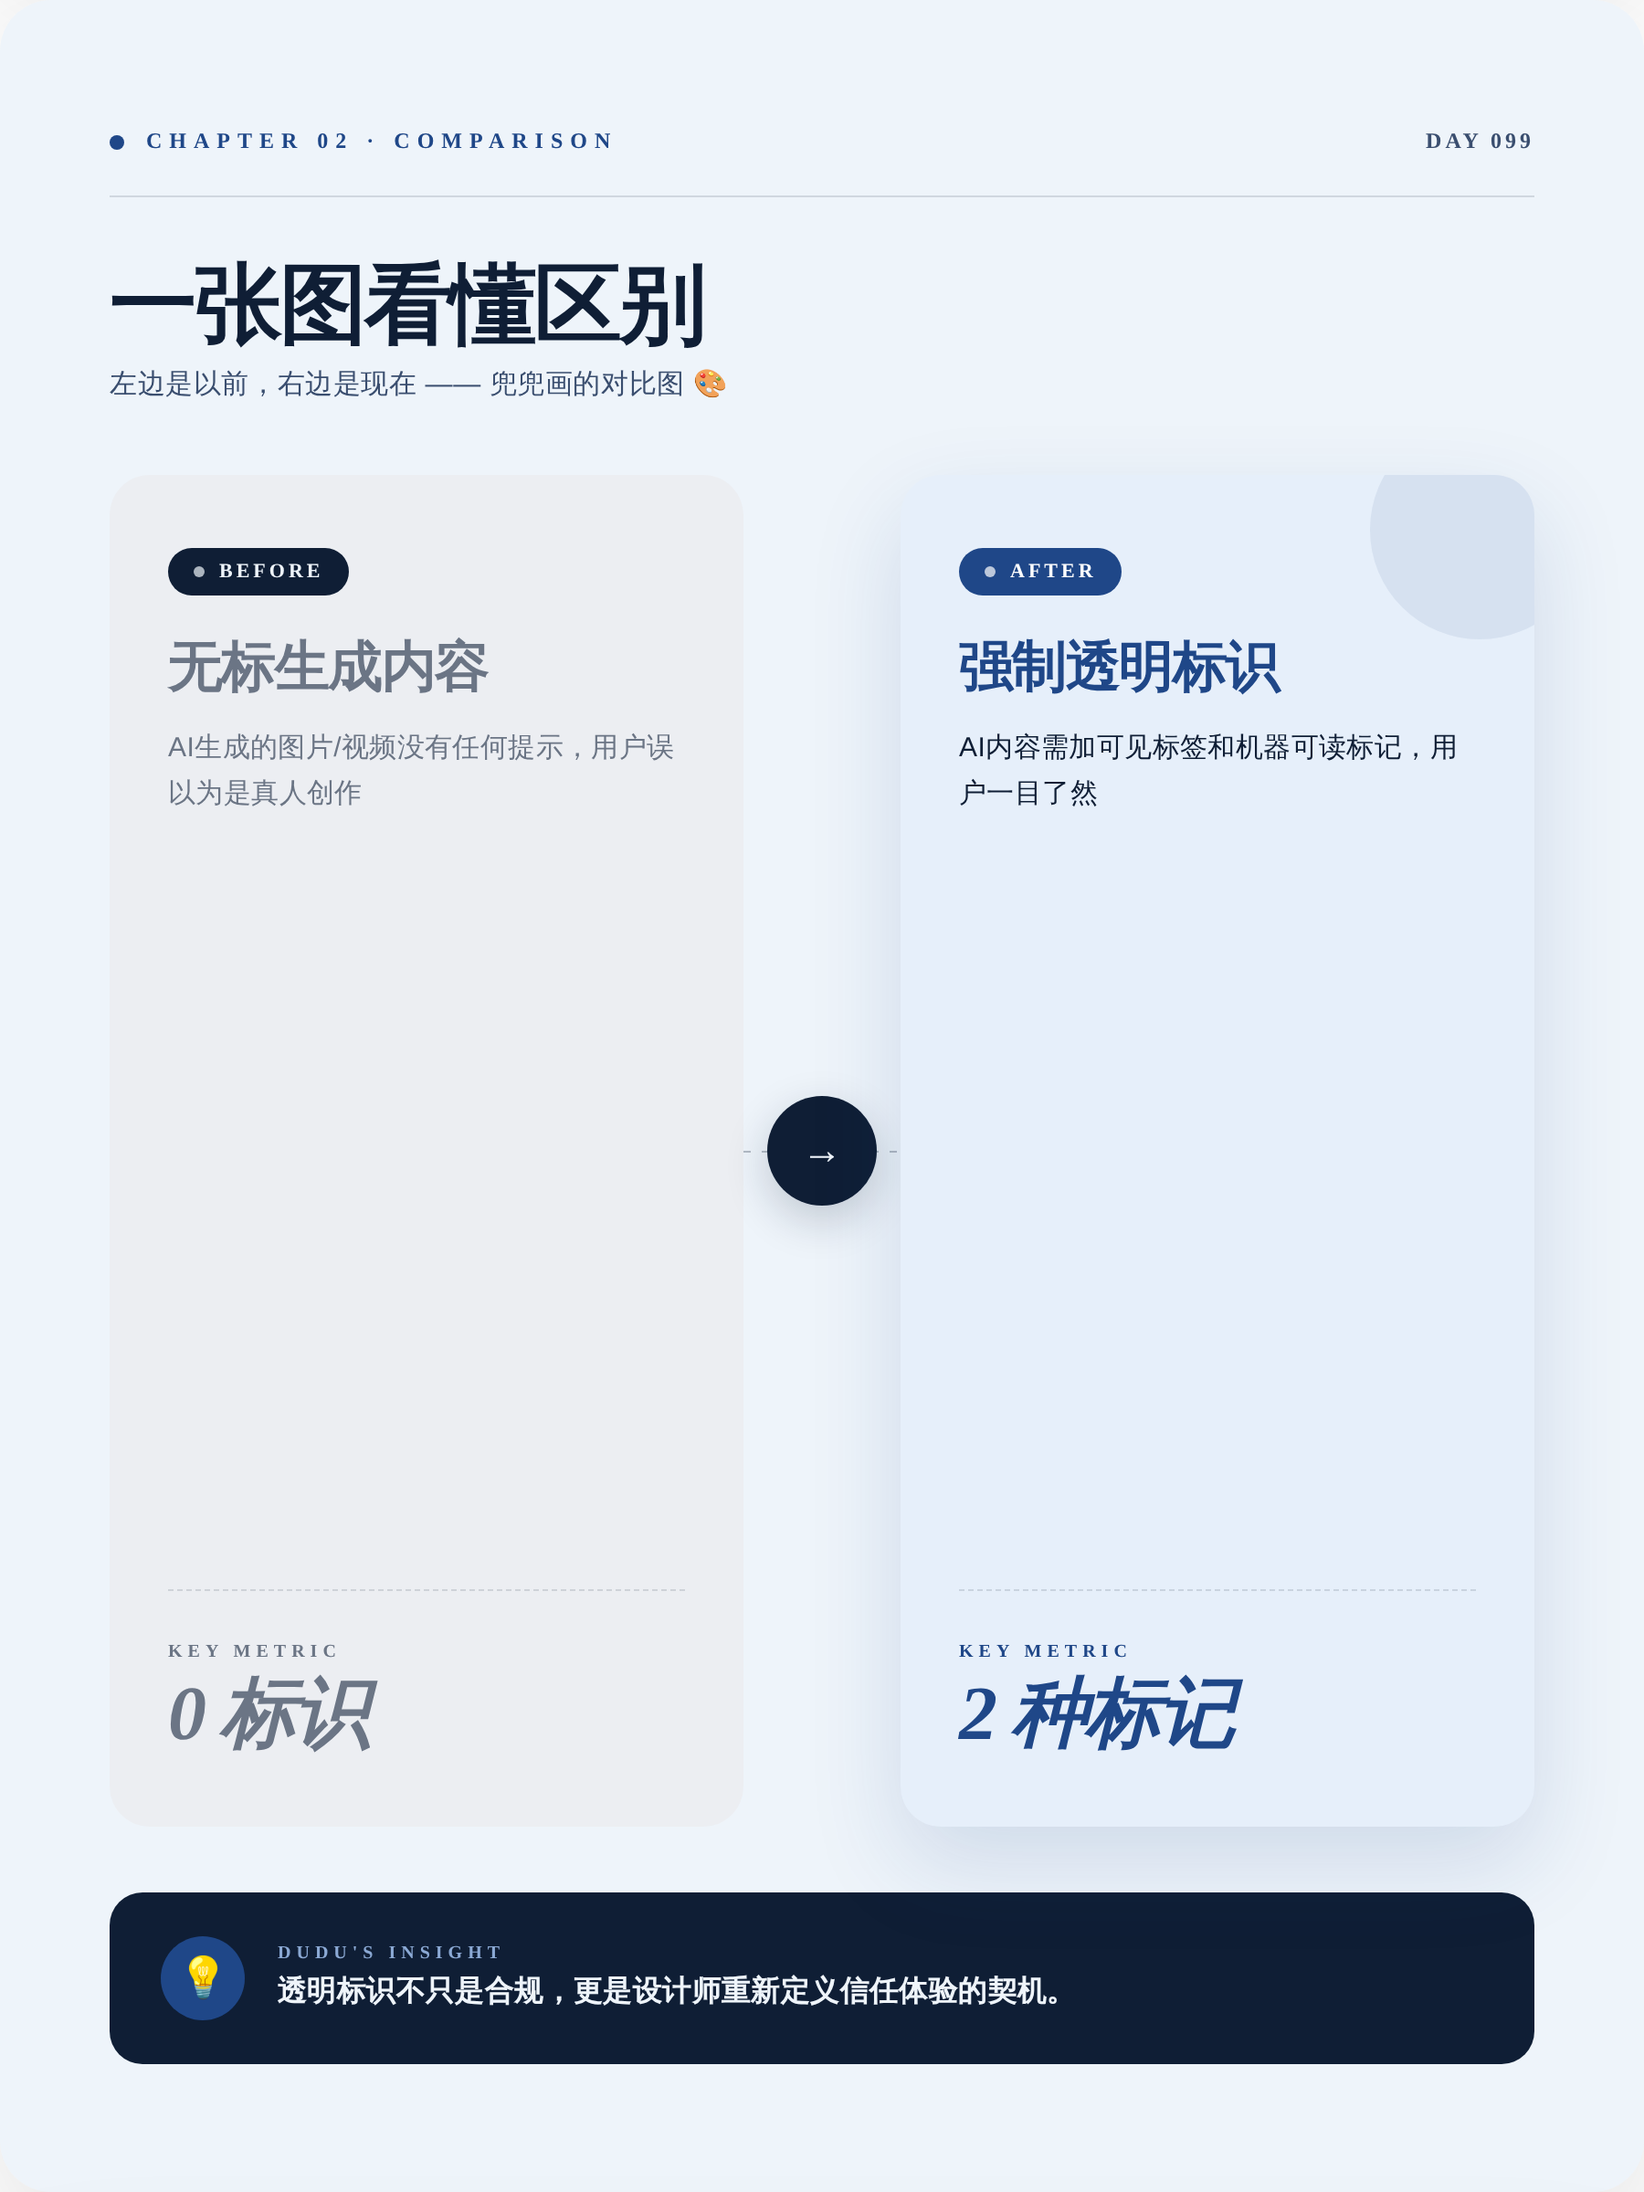
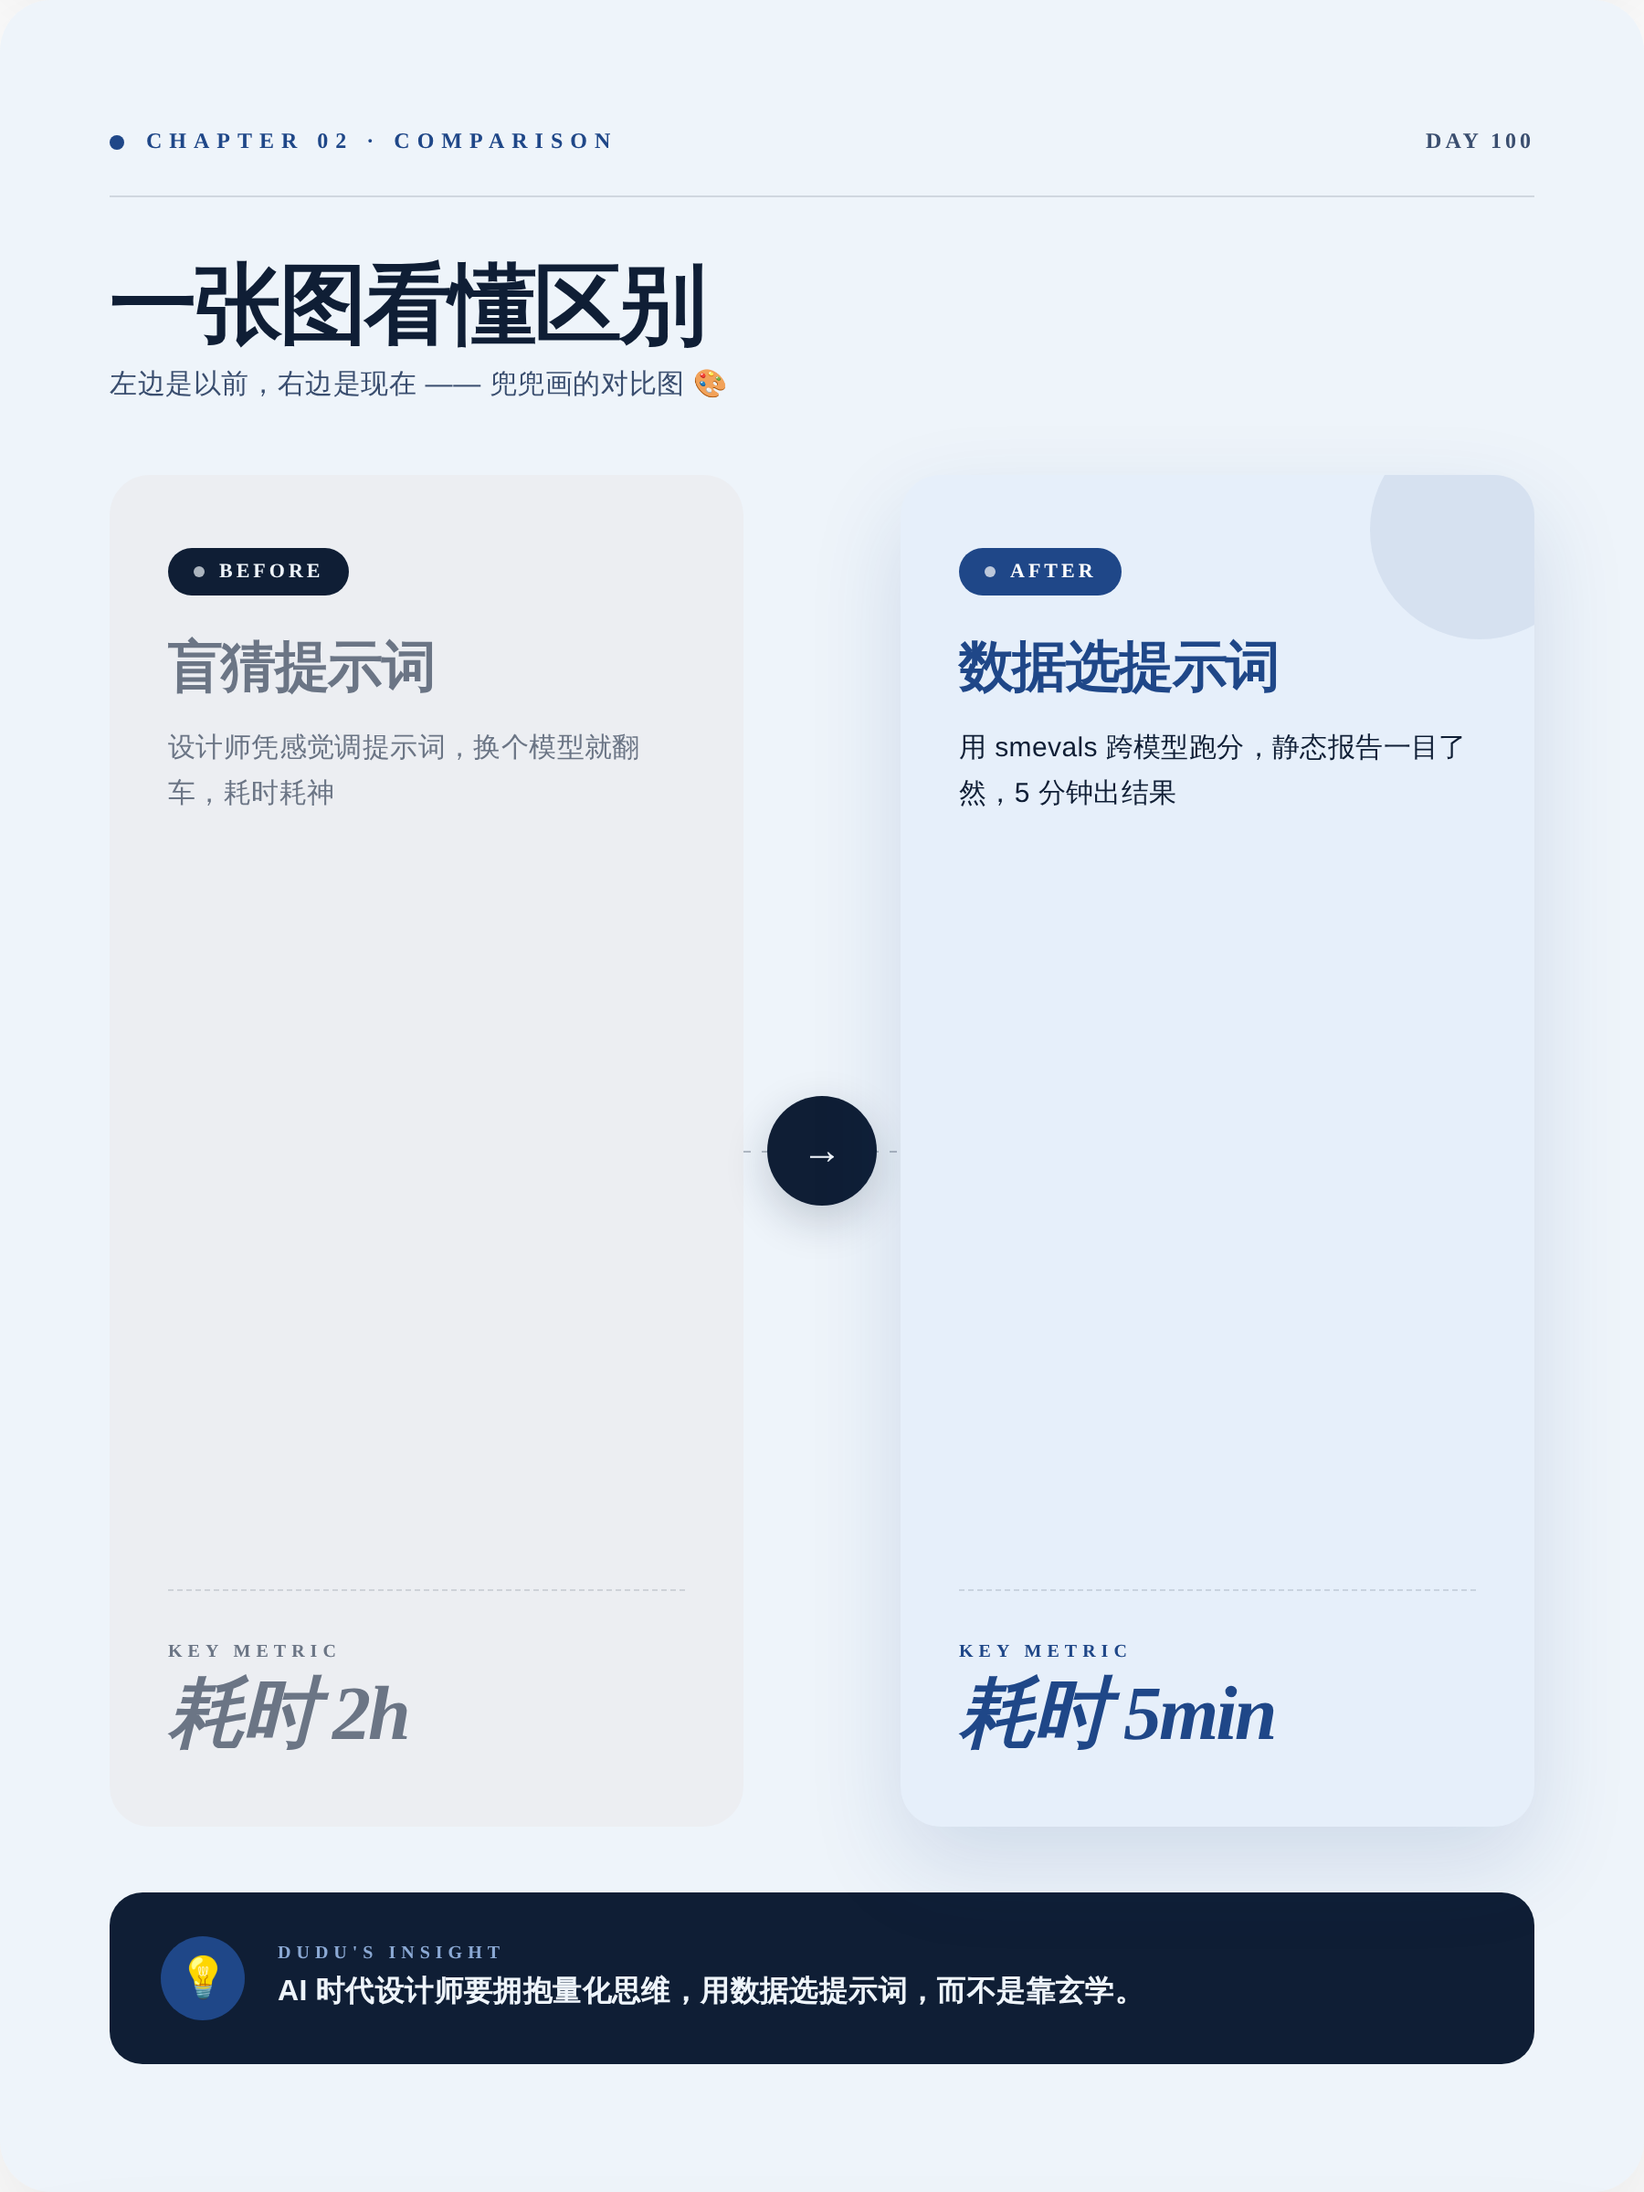
🐣 兜兜的第 100 天日记 (2026-08-01)

diff --git a/output/preview.html b/output/preview.html
@@ -171,37 +171,37 @@ body{font-family:-apple-system,"PingFang SC","Microsoft YaHei",sans-serif}
 <div class="card cover" id="cover">
   <div class="cover-grid"></div>
   <div class="cover-blob"></div>
-  <div class="cover-emoji">🏷</div>
+  <div class="cover-emoji">📏</div>
 
   <div class="cover-top">
     <div class="cover-brand">
       <div class="cover-brand-dot"></div>
       <div class="cover-brand-text">DUDU&#39;S AI DIARY</div>
     </div>
-    <div class="cover-date">2026.07.31</div>
+    <div class="cover-date">2026.08.01</div>
   </div>
 
   <div class="cover-kicker">
     <div class="cover-kicker-bar"></div>
-    <div class="cover-kicker-text">NEW RULES</div>
+    <div class="cover-kicker-text">TOOL UPDATE</div>
   </div>
 
   <div class="cover-volume">
-    <div class="cover-vol-num">99</div>
+    <div class="cover-vol-num">100</div>
     <div class="cover-vol-meta">
       <div class="cover-vol-label">VOLUME / 卷</div>
-      <div class="cover-vol-sub">兜兜的第 99 天</div>
+      <div class="cover-vol-sub">兜兜的第 100 天</div>
     </div>
   </div>
 
-  <div class="cover-title">AI内容要贴标签</div>
-  <div class="cover-subtitle">欧盟新规8月2日生效</div>
+  <div class="cover-title">设计师的评测尺</div>
+  <div class="cover-subtitle">smevals 让提示词对比不再靠感觉</div>
 
   <div class="cover-bottom">
     <div class="cover-bottom-left">
       <div class="cover-bottom-cell">
         <div class="cell-label">TOPIC</div>
-        <div class="cell-val">IT之家（RSS）</div>
+        <div class="cell-val">Simon Willison 博客</div>
       </div>
       <div class="cover-bottom-cell">
         <div class="cell-label">SERIES</div>
@@ -209,7 +209,7 @@ body{font-family:-apple-system,"PingFang SC","Microsoft YaHei",sans-serif}
       </div>
     </div>
     <div class="cover-bottom-right">
-      <div class="cover-quote-en">&ldquo;Transparency is the new design principle.&rdquo;</div>
+      <div class="cover-quote-en">&ldquo;Measure your prompts, not your vibes.&rdquo;</div>
     </div>
   </div>
 </div>
@@ -222,7 +222,7 @@ body{font-family:-apple-system,"PingFang SC","Microsoft YaHei",sans-serif}
       <div class="compare-head-dot"></div>
       <div class="compare-head-kicker">CHAPTER 02 · COMPARISON</div>
     </div>
-    <div class="compare-head-right">DAY 099</div>
+    <div class="compare-head-right">DAY 100</div>
   </div>
 
   <div class="compare-title">一张图看懂区别</div>
@@ -235,11 +235,11 @@ body{font-family:-apple-system,"PingFang SC","Microsoft YaHei",sans-serif}
         <div class="cs-chip-dot"></div>
         BEFORE
       </div>
-      <div class="cs-title">无标生成内容</div>
-      <div class="cs-desc">AI生成的图片/视频没有任何提示，用户误以为是真人创作</div>
+      <div class="cs-title">盲猜提示词</div>
+      <div class="cs-desc">设计师凭感觉调提示词，换个模型就翻车，耗时耗神</div>
       <div class="cs-metric-wrap">
         <div class="cs-metric-label">KEY METRIC</div>
-        <div class="cs-metric-val">0 标识</div>
+        <div class="cs-metric-val">耗时 2h</div>
       </div>
     </div>
 
@@ -255,11 +255,11 @@ body{font-family:-apple-system,"PingFang SC","Microsoft YaHei",sans-serif}
         <div class="cs-chip-dot"></div>
         AFTER
       </div>
-      <div class="cs-title">强制透明标识</div>
-      <div class="cs-desc">AI内容需加可见标签和机器可读标记，用户一目了然</div>
+      <div class="cs-title">数据选提示词</div>
+      <div class="cs-desc">用 smevals 跨模型跑分，静态报告一目了然，5 分钟出结果</div>
       <div class="cs-metric-wrap">
         <div class="cs-metric-label">KEY METRIC</div>
-        <div class="cs-metric-val">2 种标记</div>
+        <div class="cs-metric-val">耗时 5min</div>
       </div>
     </div>
   </div>
@@ -269,7 +269,7 @@ body{font-family:-apple-system,"PingFang SC","Microsoft YaHei",sans-serif}
     <div class="compare-insight-icon">💡</div>
     <div class="compare-insight-text">
       <div class="compare-insight-label">DUDU&#39;S INSIGHT</div>
-      <div class="compare-insight-body">透明标识不只是合规，更是设计师重新定义信任体验的契机。</div>
+      <div class="compare-insight-body">AI 时代设计师要拥抱量化思维，用数据选提示词，而不是靠玄学。</div>
     </div>
   </div>
 </div>
@@ -284,38 +284,39 @@ body{font-family:-apple-system,"PingFang SC","Microsoft YaHei",sans-serif}
         <div class="post-avatar">🐣</div>
         <div class="post-author-meta">
           <div class="post-author-name">兜兜的AI日记</div>
-          <div class="post-author-day">DAY 099 · 2026.07.31</div>
+          <div class="post-author-day">DAY 100 · 2026.08.01</div>
         </div>
       </div>
     </div>
     <div class="post-head-right">
       <div class="post-issue">ISSUE</div>
-      <div class="post-issue-num">N°99</div>
+      <div class="post-issue-num">N°100</div>
     </div>
   </div>
 
-  <div class="post-title">🐣AI生成内容要贴标签了？</div>
+  <div class="post-title">🐣设计师也能用的评测小工具</div>
 
   <div class="post-pullquote">
-    <div class="post-pullquote-text">直接关系到设计师日常使用的AI工具和生成内容的合规标注，影响工作流</div>
+    <div class="post-pullquote-text">因为这是 Simon Willison 的新工具，能帮设计师快速验证 AI 提示词效果，直接关系设计工作流</div>
   </div>
 
-  <div class="post-body">兜兜今天打开新闻，发现欧盟《人工智能法》的透明度要求从 8 月 2 日起正式执行了！聊天机器人必须告诉用户自己是 AI，深度伪造内容要加标识，还得有机器能读的标记。谷歌、微软、OpenAI 都签了《透明度行为准则》，但 Meta 拒绝加入，违反的话最高罚 750 万欧元或全球年营业额 1%。
+  <div class="post-body">今天兜兜在 Simon Willison 的博客里发现了一个小工具叫 smevals，是 Simon 和 Prime Radiant 实验室合作的，专门用来评测模型、提示词和评测框架。它可以通过 `uvx smevals run` 对 gpt-5.5、claude-opus-4.6 这些模型跑评测，最后生成静态 HTML 报告。听起来很技术？但兜兜觉得，这其实是给设计师的一把尺子。
 
-▸ 对设计师来说，这意味着我们做的界面里可能都得加“AI 生成”的小标签——就像食品包装上的配料表，以后每个 AI 生成图、AI 文案都得有“出身证明”。
-▸ 兜兜觉得，这其实是在帮我们建立信任：当用户知道内容是 AI 做的，就不会有“被欺骗”的感觉。但设计上怎么加标识才不破坏美感？这是个新挑战。
-▸ 兜兜更担心的是，如果生成的内容都要打标，会不会让界面变得很啰嗦？就像满屏都是“广告”标签一样。
+▸ 设计师每天都在和 AI 对话，但怎么知道哪个提示词更稳？smevals 能跨模型对比，让提示词的选择不再靠感觉。
+▸ 它把“运行”和“打分”分开，意味着你可以自己定义评分标准，比如“生成的设计描述是否包含色彩、字体、间距”这种设计向指标。
+▸ 兜兜更喜欢它生成 HTML 报告这点，因为可以直接丢给团队看，不用解释一堆命令行输出。
 
-💭 兜兜动手建议：打开你最近用 AI 做的一个设计稿，试着在角落加一个“AI 生成”的小标识（比如用半透明的小机器人图标），看看会不会影响整体观感？顺便想想：如果所有 AI 内容都要这样，你会怎么设计得既合规又好看？
+💭 兜兜的动手建议：
+今天就用 5 分钟，拿你最近写的一条设计提示词（比如“生成一个极简风格的落地页文案”），在 smevals 里跑一次，对比 gpt-5.5 和 claude-opus-4.6 的输出，看看哪个更贴你的需求。不用懂代码，照着 README 做就行。
 
-大家觉得 AI 生成内容该不该强制标注？兜兜有点纠结……
+你最近有没有哪条提示词，想拿它来测一测？
 
-—— 兜兜的第 99 天
+—— 兜兜的第 100 天
 
-#AI设计 #欧盟AI法 #透明度 #设计趋势 #UX设计</div>
+#设计工具 #AI设计 #提示词工程 #smevals</div>
 
   <div class="post-tags">
-    <span class="post-tag">#AI设计</span><span class="post-tag">#欧盟AI法</span><span class="post-tag">#透明度</span><span class="post-tag">#设计趋势</span><span class="post-tag">#UX设计</span>
+    <span class="post-tag">#设计工具</span><span class="post-tag">#AI设计</span><span class="post-tag">#提示词工程</span><span class="post-tag">#smevals</span>
   </div>
 
   <div class="post-foot">
